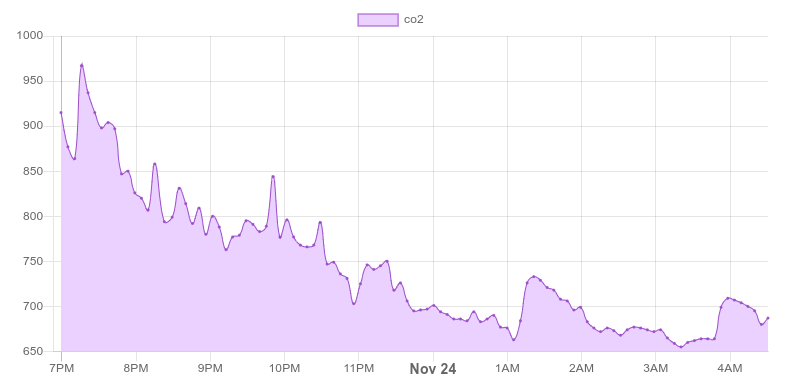
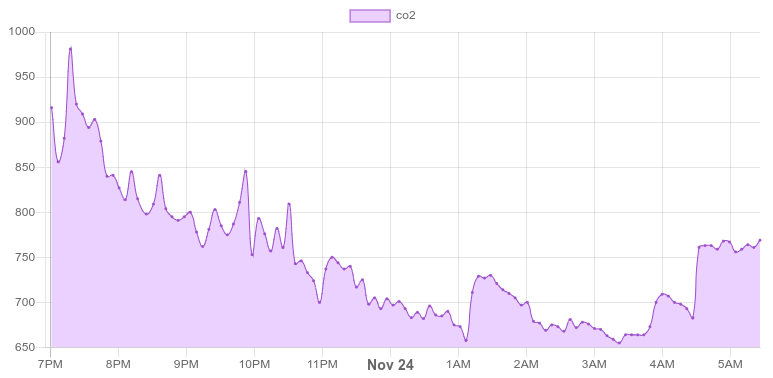
update

diff --git a/index.html b/index.html
@@ -2814,7 +2814,7 @@ delay(2000);
 </ul>
 <hr>
 <p>2020 NOV 24</p>
-<p>Went to bed NOV 23 at around 10:30 PM; woke up and started using computer right next to CO2 sensor at 4:30 AM. Generated these graphs as of 4:30 AM:</p>
+<p><strong>Results of overnight test on NOV 23.</strong>  Out of three people in apartment, two went to bed at around 8 PM, the final person at around 10:30 PM.  One person (me) woke up and started using computer right next to CO2 sensor at 4:30 AM. Generated these graphs as of 4:30 AM:</p>
 <table>
 <thead>
 <tr>
@@ -2840,8 +2840,8 @@ delay(2000);
 </tbody>
 </table>
 <p><strong>Comment</strong>. Note the correlation between temperature and CO2, with co-occurring peaks around 12 AM and 1:30 AM. The temperature pattern likely due to the HVAC system.  (The spike in CO2 and temperature at 4:30 AM are likely simply due to my presence near the sensor.) Unless the HVAC is in fact bringing in air with higher concentration of CO2, perhaps this indicates the range of fluctuation in CO2 reading due to temperature.  Do we expect CO2 to rise with temperature for this NDIR sensor type?</p>
-<p>Reference for effect of temperature and pressure on CO2, <a href="https://www.bapihvac.com/application_note/effects-of-temperature-and-barometric-pressure-on-co2-sensors-application-note/">here</a>.</p>
-<p>Ah, here's a key passage:</p>
+<p>Found nice reference for effect of temperature and pressure on CO2, <a href="https://www.bapihvac.com/application_note/effects-of-temperature-and-barometric-pressure-on-co2-sensors-application-note/">here</a>.</p>
+<p>Key passage:</p>
 <blockquote>
 <p>The size of the NDIR sampling chamber is fixed and is open to the atmosphere so that air can move in and out.  As explained above, the number of air molecules in a given volume is affected by temperature and air pressure but not the concentration of CO2.  At low pressures or high temperatures, there will be fewer air molecules in the sample chamber, so there will also be fewer CO2 molecules, even though the ppm of CO2 hasn’t changed.  Fewer CO2 molecules “fools” the sensor into thinking that the CO2 concentration is lower than it really is.  At high pressures or low temperatures, there are more air molecules in the sample chamber and more CO2 molecules, even though the CO2 concentration hasn’t changed.  More CO2 molecules “fools” the sensor into thinking that the CO2 concentration is higher than it really is. Therefore a CO2 sensor calibration will only be accurate at one temperature and one air pressure.</p>
 </blockquote>
@@ -2850,7 +2850,17 @@ delay(2000);
 <li>higher pressures &amp; lower pressures--&gt; more air (and thus more CO2) molecules in the chamber --&gt; higher CO2 readings</li>
 <li>lower pressures &amp; higher temperatures --&gt; less air (and thus less CO2) molecules in chamber --&gt; lower CO2 readings</li>
 </ul>
-<p>This fluctuation is due to pressure inside the apartment, when the HVAC system turns on?  Now worth attempting to compensate with external pressure sensor ...</p>
+<p>This fluctuation is due to pressure inside the apartment, when the HVAC system turns on?  Now worth attempting to compensate with external pressure sensor.</p>
+<p><strong>Addendum</strong>.  I've now replaced the above graphs so that we can see the readings from 0430 to 0530, during which time I sat close to sensor.  Note that the temperature rose less than during some of the nightly spikes, but CO2 rose more, as one might expect given my proximity to the sensor. This perhaps leads to more confidence in the temperature-compensation of the SCD30.</p>
+<p><strong>Thoughts on calibration, and baselines.</strong>  The key metric in the 2020 paper by <a href="#jimenez">Peng et al</a> is 'PPM above baseline'.  So, perhaps absolute calibration isn't really an important metric, here.  The more interesting thing would be to establish a 'baseline', algorithmically, display it graphically, and allow the user to adjust based on their interpretation.</p>
+<p>Key passage from page one of <a href="#jimenez">Peng et al</a>:</p>
+<blockquote>
+<p>Indoor CO2 has been suggested as a practical proxy of respiratory infectious disease transmission
+risk (8), as pathogen-containing aerosols and CO2 are co-exhaled by those infected (Fig. 1).
+Since background (ambient) CO2 level is stable and indoor excess CO2 is usually only from
+human exhalation, measurements of indoor CO2 concentration by low-cost CO2 sensors can
+often be good indicators of infection risk and suitable for mass deployment (9, 10).</p>
+</blockquote>
 </p>
       </div>
     </div>

diff --git a/posts/notes/co2/index.html b/posts/notes/co2/index.html
@@ -819,7 +819,7 @@ void loop() {
 </ul>
 <hr>
 <p>2020 NOV 24</p>
-<p>Went to bed NOV 23 at around 10:30 PM; woke up and started using computer right next to CO2 sensor at 4:30 AM. Generated these graphs as of 4:30 AM:</p>
+<p><strong>Results of overnight test on NOV 23.</strong>  Out of three people in apartment, two went to bed at around 8 PM, the final person at around 10:30 PM.  One person (me) woke up and started using computer right next to CO2 sensor at 4:30 AM. Generated these graphs as of 4:30 AM:</p>
 <table>
 <thead>
 <tr>
@@ -845,8 +845,8 @@ void loop() {
 </tbody>
 </table>
 <p><strong>Comment</strong>. Note the correlation between temperature and CO2, with co-occurring peaks around 12 AM and 1:30 AM. The temperature pattern likely due to the HVAC system.  (The spike in CO2 and temperature at 4:30 AM are likely simply due to my presence near the sensor.) Unless the HVAC is in fact bringing in air with higher concentration of CO2, perhaps this indicates the range of fluctuation in CO2 reading due to temperature.  Do we expect CO2 to rise with temperature for this NDIR sensor type?</p>
-<p>Reference for effect of temperature and pressure on CO2, <a href="https://www.bapihvac.com/application_note/effects-of-temperature-and-barometric-pressure-on-co2-sensors-application-note/">here</a>.</p>
-<p>Ah, here's a key passage:</p>
+<p>Found nice reference for effect of temperature and pressure on CO2, <a href="https://www.bapihvac.com/application_note/effects-of-temperature-and-barometric-pressure-on-co2-sensors-application-note/">here</a>.</p>
+<p>Key passage:</p>
 <blockquote>
 <p>The size of the NDIR sampling chamber is fixed and is open to the atmosphere so that air can move in and out.  As explained above, the number of air molecules in a given volume is affected by temperature and air pressure but not the concentration of CO2.  At low pressures or high temperatures, there will be fewer air molecules in the sample chamber, so there will also be fewer CO2 molecules, even though the ppm of CO2 hasn’t changed.  Fewer CO2 molecules “fools” the sensor into thinking that the CO2 concentration is lower than it really is.  At high pressures or low temperatures, there are more air molecules in the sample chamber and more CO2 molecules, even though the CO2 concentration hasn’t changed.  More CO2 molecules “fools” the sensor into thinking that the CO2 concentration is higher than it really is. Therefore a CO2 sensor calibration will only be accurate at one temperature and one air pressure.</p>
 </blockquote>
@@ -855,7 +855,17 @@ void loop() {
 <li>higher pressures &amp; lower pressures--&gt; more air (and thus more CO2) molecules in the chamber --&gt; higher CO2 readings</li>
 <li>lower pressures &amp; higher temperatures --&gt; less air (and thus less CO2) molecules in chamber --&gt; lower CO2 readings</li>
 </ul>
-<p>This fluctuation is due to pressure inside the apartment, when the HVAC system turns on?  Now worth attempting to compensate with external pressure sensor ...</p>
+<p>This fluctuation is due to pressure inside the apartment, when the HVAC system turns on?  Now worth attempting to compensate with external pressure sensor.</p>
+<p><strong>Addendum</strong>.  I've now replaced the above graphs so that we can see the readings from 0430 to 0530, during which time I sat close to sensor.  Note that the temperature rose less than during some of the nightly spikes, but CO2 rose more, as one might expect given my proximity to the sensor. This perhaps leads to more confidence in the temperature-compensation of the SCD30.</p>
+<p><strong>Thoughts on calibration, and baselines.</strong>  The key metric in the 2020 paper by <a href="#jimenez">Peng et al</a> is 'PPM above baseline'.  So, perhaps absolute calibration isn't really an important metric, here.  The more interesting thing would be to establish a 'baseline', algorithmically, display it graphically, and allow the user to adjust based on their interpretation.</p>
+<p>Key passage from page one of <a href="#jimenez">Peng et al</a>:</p>
+<blockquote>
+<p>Indoor CO2 has been suggested as a practical proxy of respiratory infectious disease transmission
+risk (8), as pathogen-containing aerosols and CO2 are co-exhaled by those infected (Fig. 1).
+Since background (ambient) CO2 level is stable and indoor excess CO2 is usually only from
+human exhalation, measurements of indoor CO2 concentration by low-cost CO2 sensors can
+often be good indicators of infection risk and suitable for mass deployment (9, 10).</p>
+</blockquote>
 
 
     </div>
